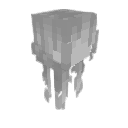
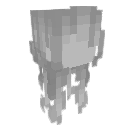
changed eye system (again)

Changed region(s): [[0.2188, 0.0312, 0.8438, 1.0], [0.5938, 0.1875, 0.6562, 0.25]]

diff --git a/src/lib/skinviewer3d/textureHelper.ts b/src/lib/skinviewer3d/textureHelper.ts
@@ -1,13 +1,13 @@
 import type { Color } from "three";
 
-export type eyeType="4*4"|"4*2"|"5*4"|"3*2"|"none"
+export type eyeType="2*2"|"2*3"|"2*4"|"3*4"|"none"
 export function moveBrows(canvas:HTMLCanvasElement,fleshCanvas:HTMLCanvasElement|undefined, type:eyeType)
 {
     var ctx=canvas?.getContext("2d");
     var ctx1=fleshCanvas?.getContext("2d");
     if(!ctx)
         return;
-    if(type=="4*2" || type=="3*2")
+    if(type=="2*2")
     {
         var B=ctx.getImageData(16,22,16,2)
         ctx.putImageData(B,112,6);
@@ -19,12 +19,13 @@ export function moveBrows(canvas:HTMLCanvasElement,fleshCanvas:HTMLCanvasElement
         }
         
     }
-    else if(type=="4*4"|| type=="5*4")
+    else if(type=="2*4" || "3*4"|| "2*3")
     {
-        var B=ctx.getImageData(16,22,16,2)
-        ctx.clearRect(16,22,16,2);
+        var A=ctx.getImageData(16,17,16,15)
+        ctx.clearRect(16,17,16,15);
+        ctx.putImageData(A,16,16);
+        var B=ctx.getImageData(16,21,16,2)
         ctx.putImageData(B,112,2);
-        ctx.putImageData(B,16,21);
         if(ctx1)
         {
             ctx1.clearRect(112,0,16,8)
@@ -32,6 +33,8 @@ export function moveBrows(canvas:HTMLCanvasElement,fleshCanvas:HTMLCanvasElement
             ctx1.putImageData(p,112,0)
         }
     }
+    
+    
 }
 export function moveEyes(canvas:HTMLCanvasElement,fleshCanvas:HTMLCanvasElement|undefined, type:eyeType)
 {
@@ -39,71 +42,66 @@ export function moveEyes(canvas:HTMLCanvasElement,fleshCanvas:HTMLCanvasElement|
     var ctx1=fleshCanvas?.getContext("2d");
     if(!ctx)
         return;
-    if(type=="4*2")
-    {
-        var G=ctx.getImageData(18,24,4,2)
-            ctx.putImageData(G,48,8);
-        var D=ctx.getImageData(26,24,4,2)
-            ctx.putImageData(D,52,8);
-            if(ctx1){
-                //chair cover oeil
-                ctx1.clearRect(48,6,17,10)
-                var p=ctx1.getImageData(18,24,4,2);
-                ctx.putImageData(p,48,6)
-                p=ctx1?.getImageData(26,24,4,2);
-                ctx?.putImageData(p,52,6)
-               
-            }
-        
-    }
-    else if(type=="3*2")
+    if(ctx1)
+        ctx1.clearRect(48,0,16,16)
+        ctx.clearRect(48,0,16,16)
+    if(type=="2*2")
     {
         var G=ctx.getImageData(19,24,3,2)
-        ctx.putImageData(G,56,8);
-    var D=ctx.getImageData(26,24,4,2)
-        ctx.putImageData(D,59,8);
-  
-        if(ctx1){
-            //chair cover oeil
-            ctx1.clearRect(48,6,17,10)
-            var p=ctx1.getImageData(19,24,3,2);
-            ctx.putImageData(p,56,6)
-            p=ctx1?.getImageData(26,24,3,2);
-            ctx?.putImageData(p,59,6)
+        ctx.putImageData(G,48,14);
+        var D=ctx.getImageData(26,24,3,2)
+        ctx.putImageData(D,51,14);
+        if(ctx1)
+        {
+            var d=ctx1.getImageData(19,24,3,2)    
+            ctx1.putImageData(d,56,14)
+            var d=ctx1.getImageData(26,24,3,2)    
+            ctx1.putImageData(d,59,14)
         }
-    }
-    else if(type=="4*4")
-    {
-        var G=ctx.getImageData(18,23,4,4)
-            ctx.putImageData(G,48,12);
-        var D=ctx.getImageData(26,23,4,4)
-            ctx.putImageData(D,52,12);
-      
-            if(ctx1){
-                //chair cover oeil
-                ctx1.clearRect(48,6,17,10)
-                var p=ctx1.getImageData(18,22,4,2);
-                ctx.putImageData(p,48,10)
-                p=ctx1?.getImageData(26,22,4,2);
-                ctx?.putImageData(p,52,10)
-            }
         
     }
-    else if(type=="5*4")
+    else if(type=="2*4")
+    {
+        var G=ctx.getImageData(19,23,3,4)
+        ctx.putImageData(G,48,10);
+        var D=ctx.getImageData(26,23,3,4)
+        ctx.putImageData(D,51,10);
+        if(ctx1)
         {
-            var G=ctx.getImageData(17,23,5,4)
-                ctx.putImageData(G,56,12);
-            var D=ctx.getImageData(26,23,5,4)
-                ctx.putImageData(D,61,12);
-                if(ctx1){
-                    //chair cover oeil
-                    ctx1.clearRect(48,6,17,10)
-                    var p=ctx1.getImageData(17,22,5,2);
-                    ctx.putImageData(p,56,10)
-                    p=ctx1?.getImageData(26,22,5,2);
-                    ctx?.putImageData(p,61,10)
-                }
+            var d=ctx1.getImageData(19,23,3,4)    
+            ctx1.putImageData(d,56,10)
+            var d=ctx1.getImageData(26,23,3,4)    
+            ctx1.putImageData(d,59,10)
         }
+    }
+    else if(type=="3*4")
+    {
+        var G=ctx.getImageData(18,23,4,4)
+            ctx.putImageData(G,48,6);
+        var D=ctx.getImageData(26,23,4,4)
+            ctx.putImageData(D,52,6);        
+        if(ctx1)
+        {
+            var d=ctx1.getImageData(18,23,4,4)    
+            ctx1.putImageData(d,56,6)
+            var d=ctx1.getImageData(26,23,4,4)    
+            ctx1.putImageData(d,60,6)
+        }
+    }
+    else if(type=="2*3")
+    {
+            var G=ctx.getImageData(19,23,3,3)
+                ctx.putImageData(G,48,3);
+            var D=ctx.getImageData(26,23,3,3)
+                ctx.putImageData(D,51,3);               
+            if(ctx1)
+            {
+                var d=ctx1.getImageData(19,23,3,3)    
+                ctx1.putImageData(d,56,3)
+                var d=ctx1.getImageData(26,23,3,3)    
+                ctx1.putImageData(d,59,3)
+            }
+    }
     
 }
 
